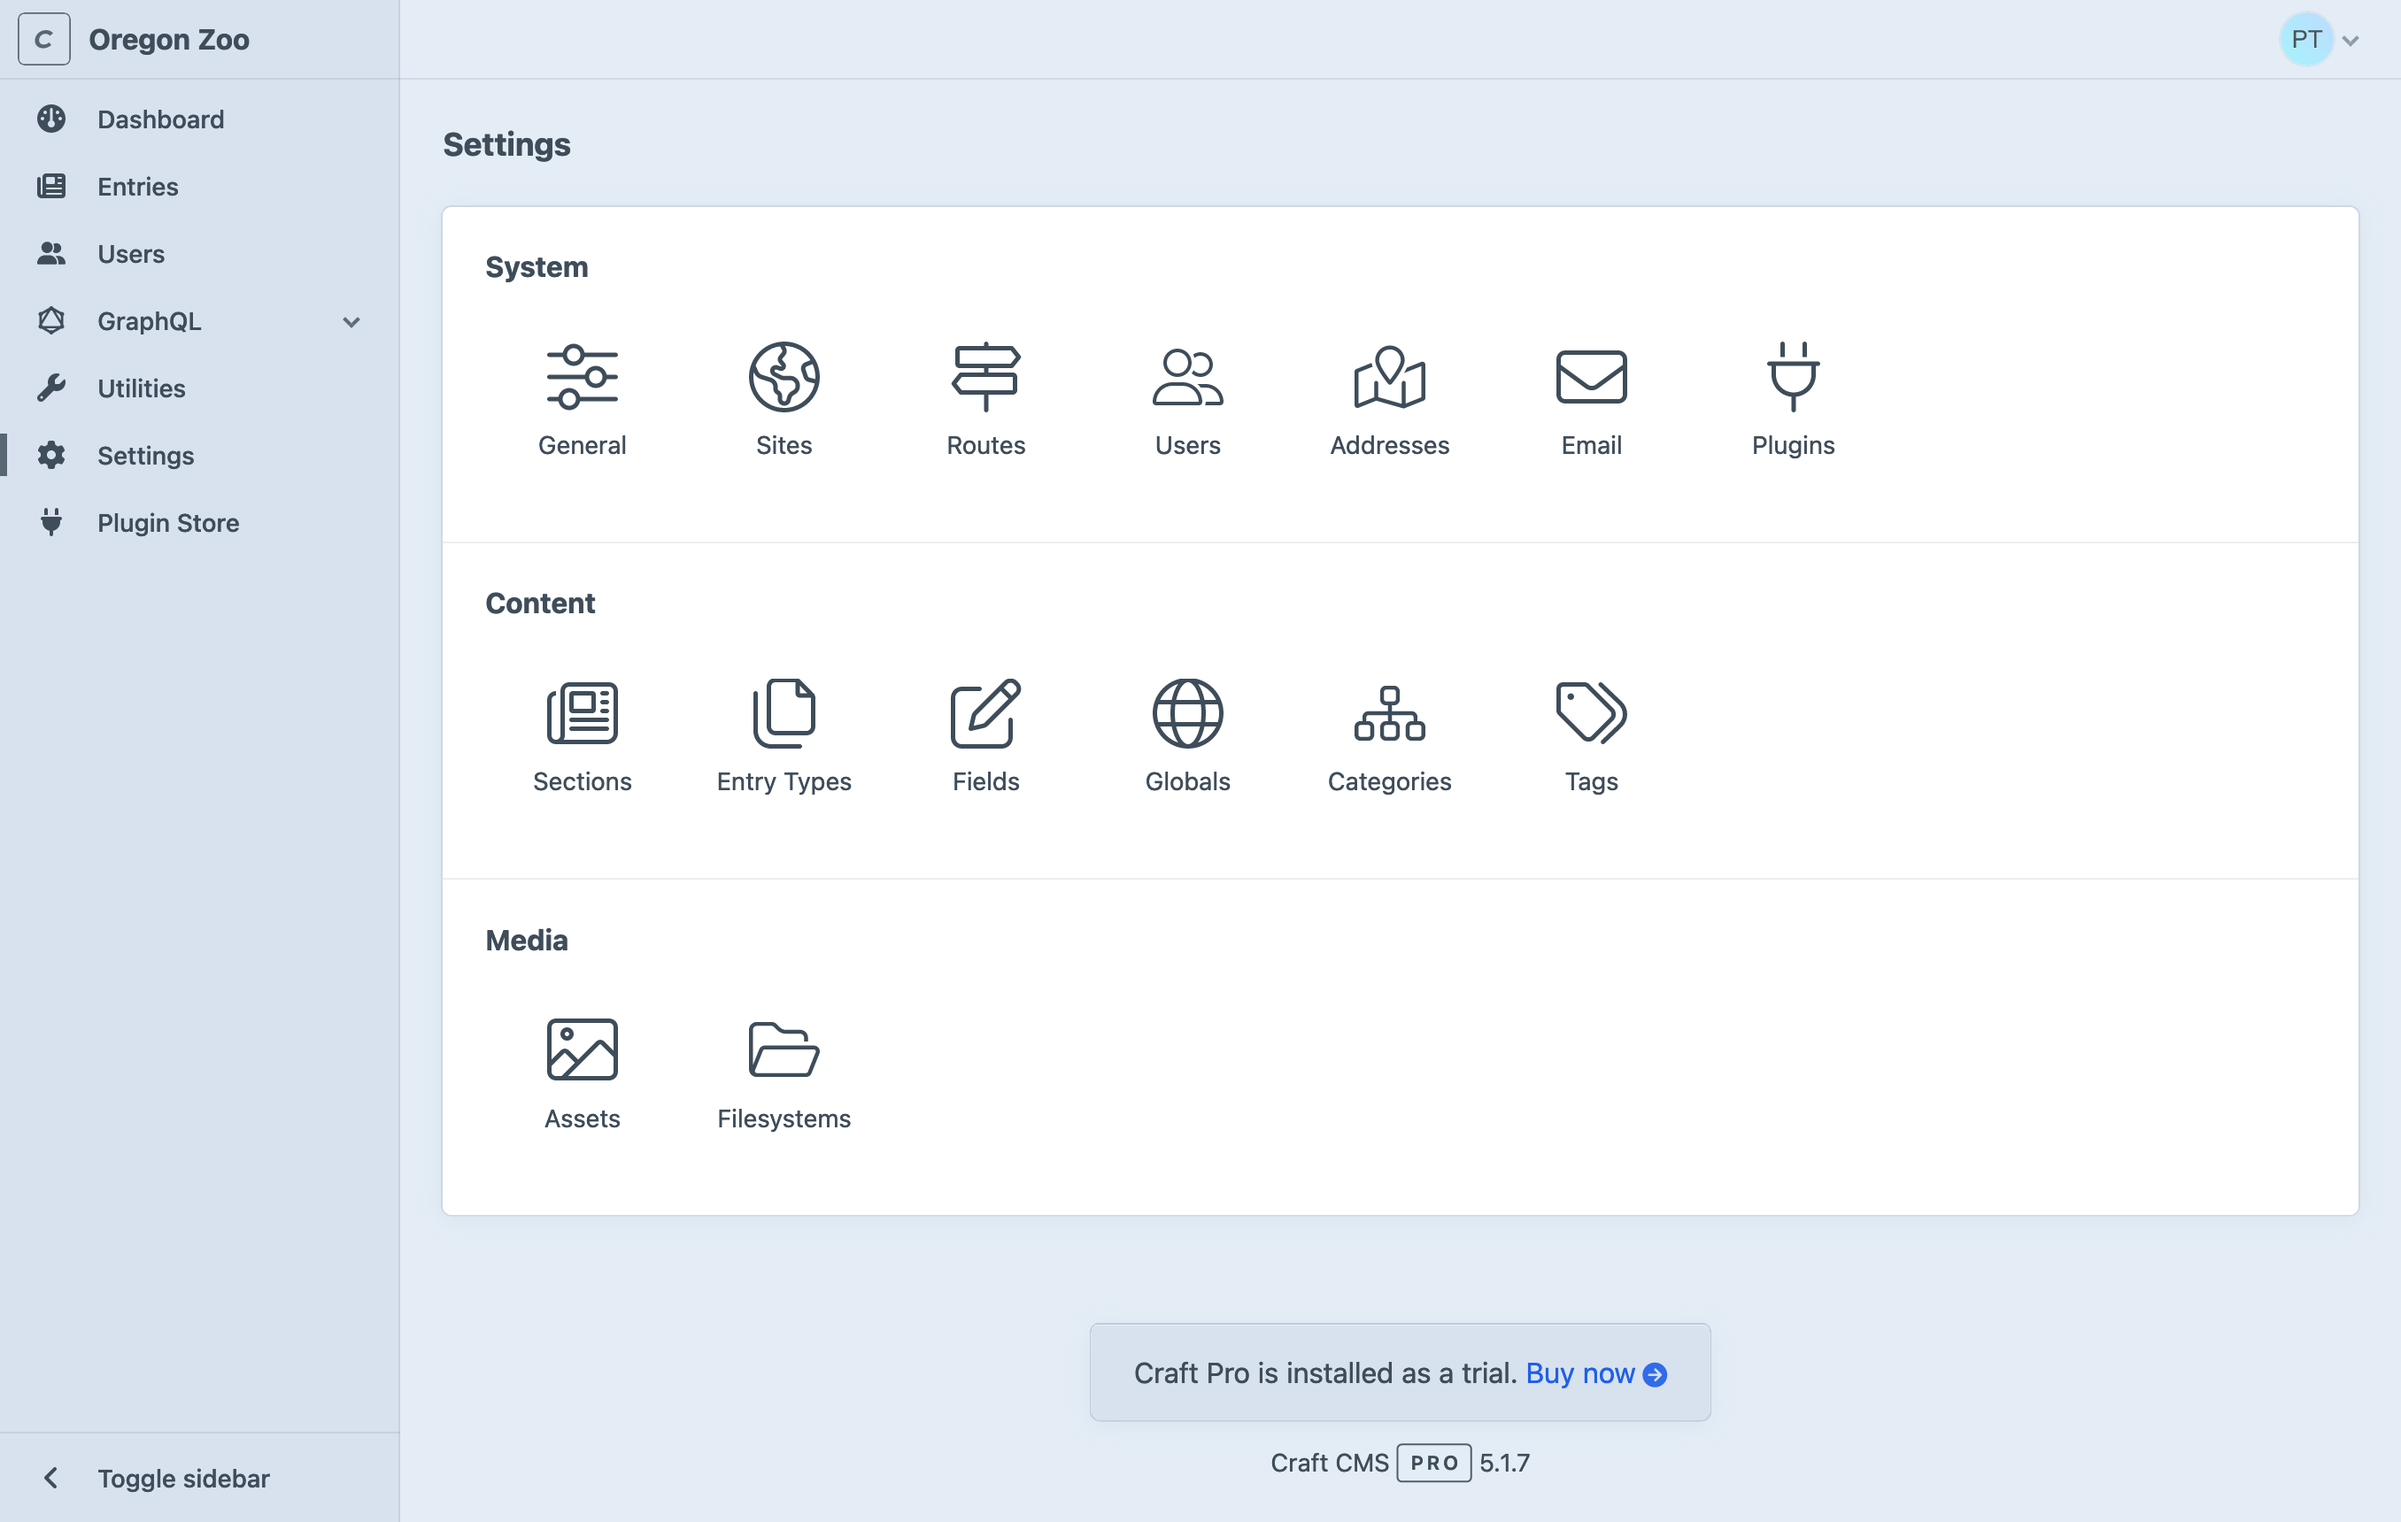
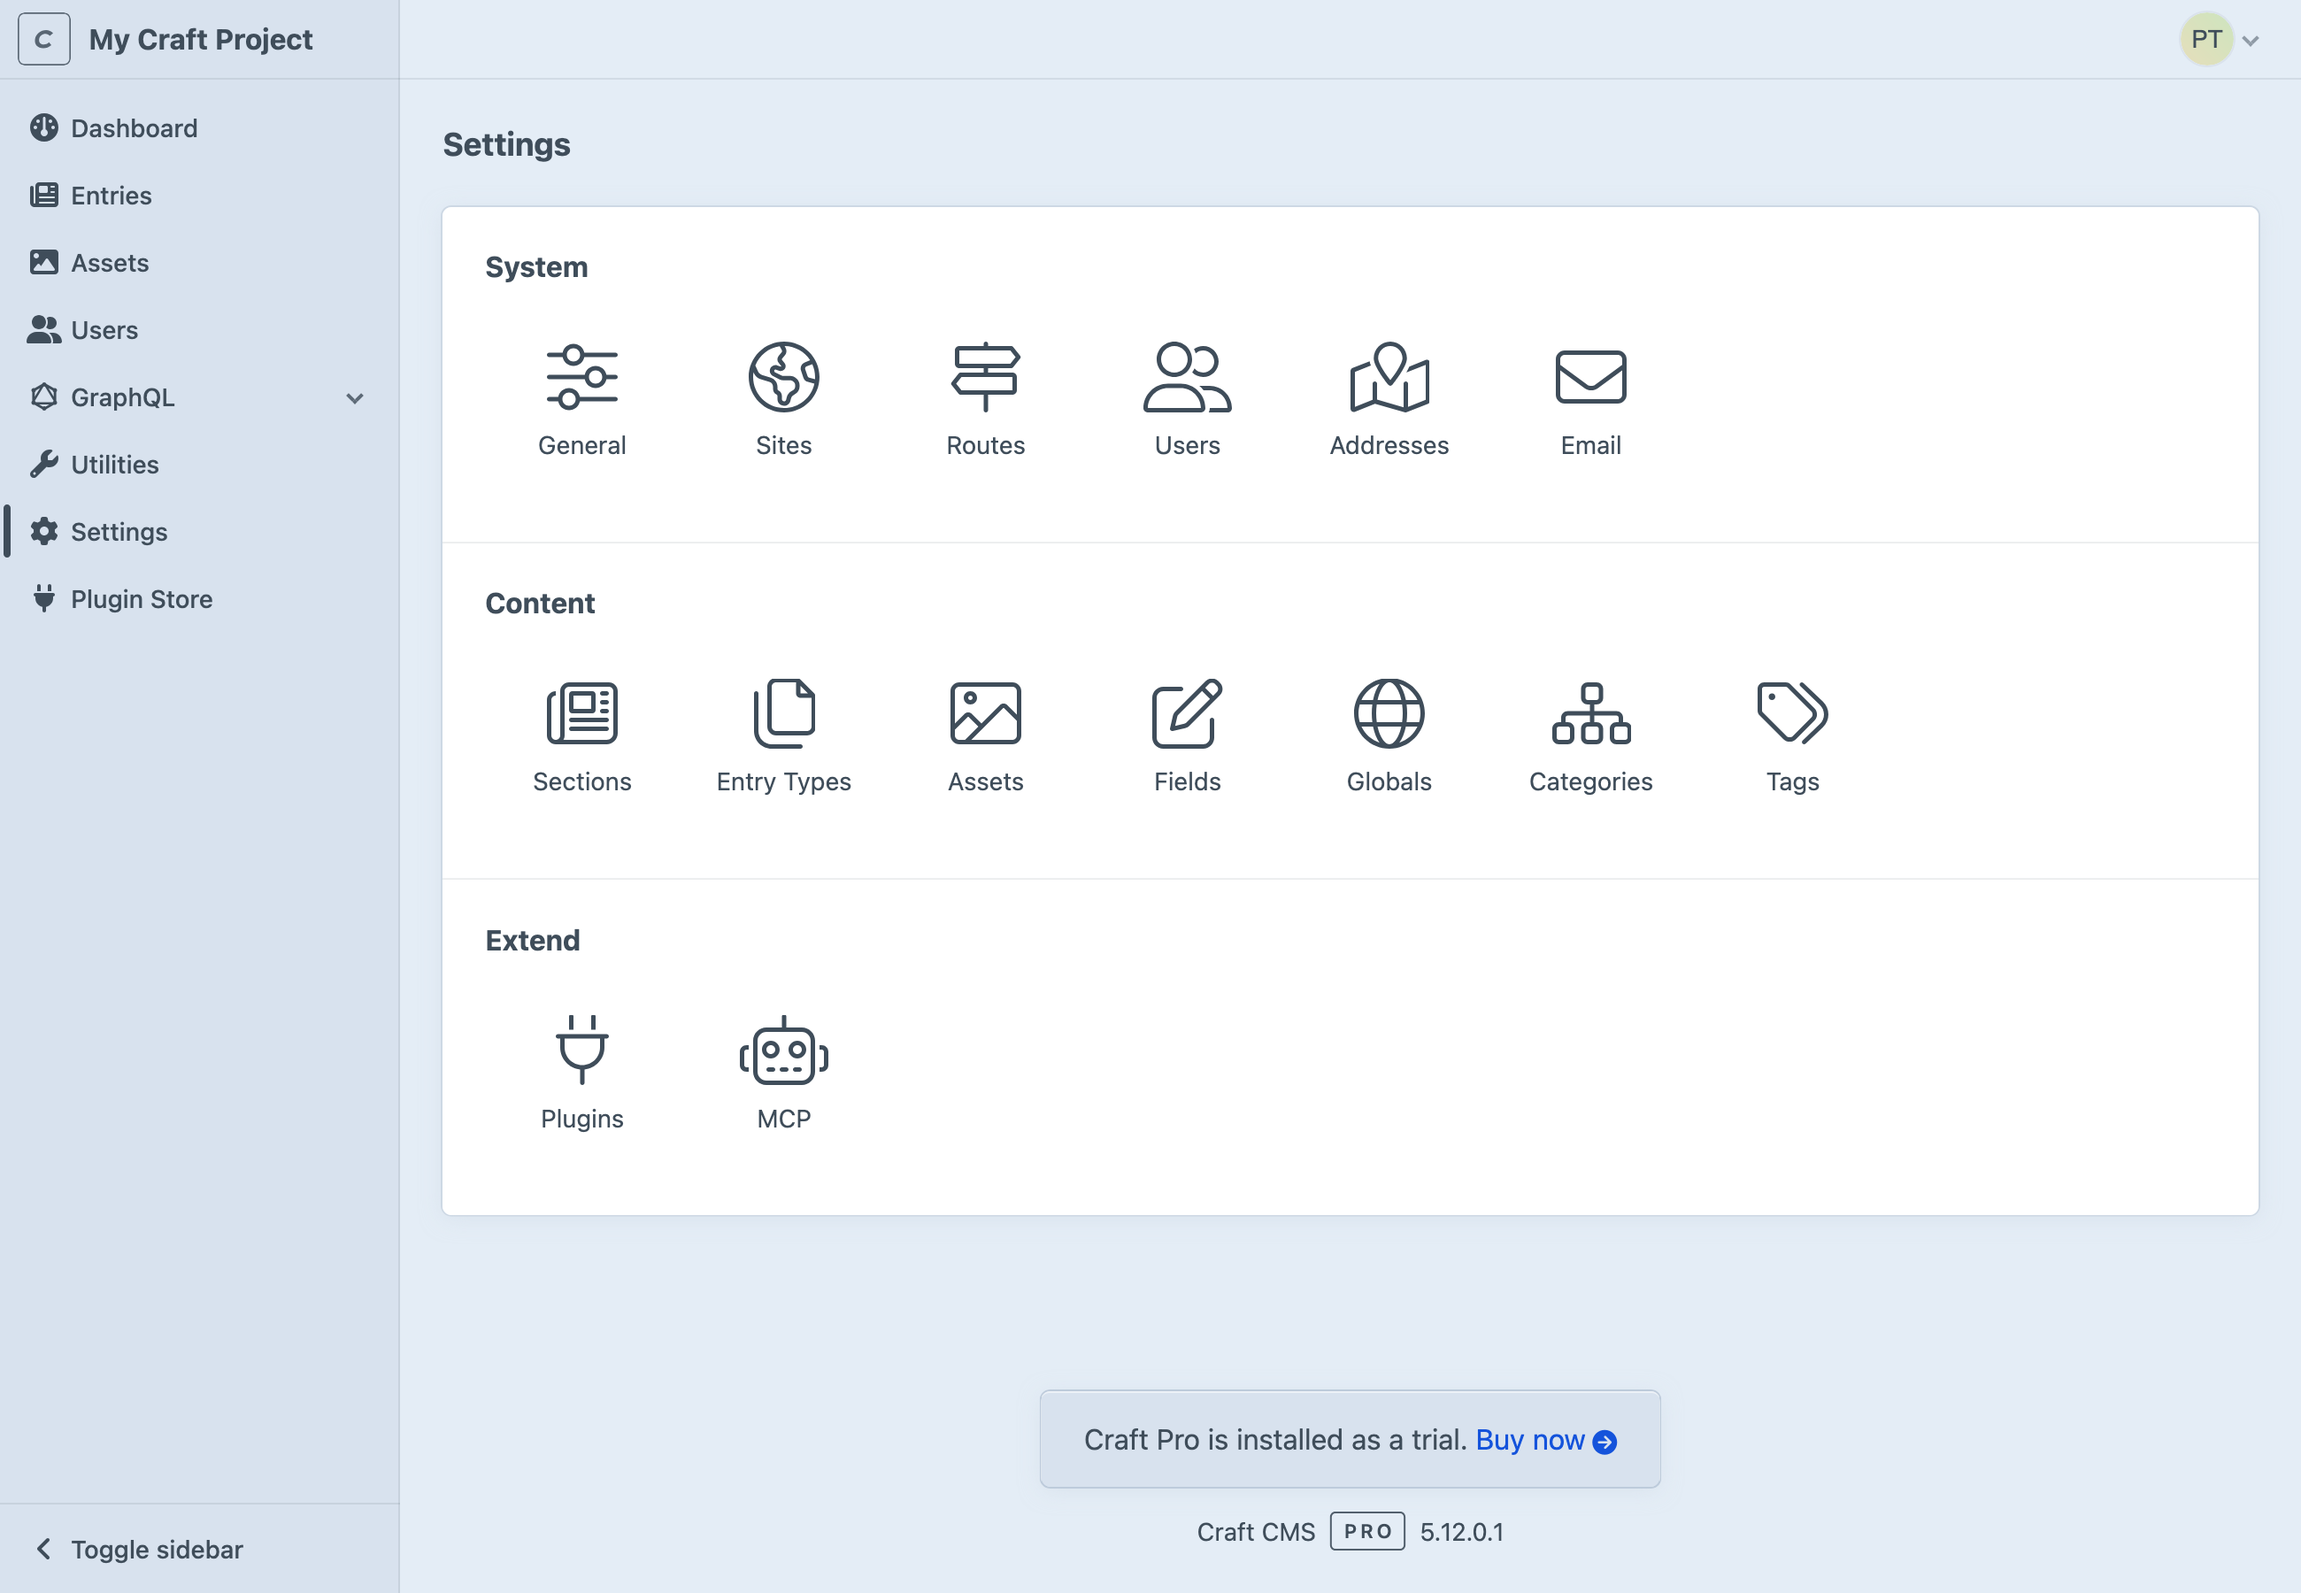
CP cleanup Robit coudn't capture a fresh screenshot; replaced the initial one and the new settings screen organization. It did nudge the “waypoint” around, though, which is weirdly lucid.

diff --git a/docs/5.x/system/control-panel.md b/docs/5.x/system/control-panel.md
@@ -160,9 +160,9 @@ We recommend that this is enabled [only in development environments](../deploy.m
     caption="The settings screen in Craft Pro. Some tiles may only be available in paid editions of Craft."
     id="settings"
     :poi="{
-        system: [80, 24],
-        content: [80, 46],
-        extend: [80, 68],
+        system: [85, 24],
+        content: [85, 46],
+        extend: [85, 68],
     }">
 <img src="../images/control-panel-settings.png" alt="Craft settings screen">
 </BrowserShot>
@@ -195,7 +195,8 @@ Group | Description
 **Tags** | Define simple taxonomies with [tag groups](../reference/element-types/tags.md#tag-groups).
 
 ::: tip
-Prior to Craft 5.12, asset settings and filesystems had their own tiles in a separate “Media” section. Filesystems are now managed from <Journey path="Settings, Assets, Filesystems" />.
+Prior to Craft 5.12, asset settings and filesystems had their own tiles in a separate “Media” section.
+Filesystems are now managed from <Journey path="Settings, Assets, Filesystems" />.
 :::
 
 #### Extend <Poi label="3" target="settings" id="extend" /> <Since ver="5.12.0" feature="The Extend settings section" />
@@ -209,11 +210,13 @@ Group | Description
 
 #### Plugins
 
-Additional tiles may appear in a final group, after installing [plugins](plugins.md). Plugin settings are also accessible via the <Journey path="Settings, Plugins" /> screen.
+Installed [plugins](plugins.md) may add more tiles to a final **Plugins** group.
+Plugins’ settings screens are also accessible via their rows in <Journey path="Settings, Plugins" />.
 
 #### Read-Only Mode <Since ver="5.6.0" feature="Read-only settings screens" />
 
-[Administrators](user-management.md#admin-accounts) can always _view_ settings. A banner appears at the top of each settings screen, and inputs and controls are simplified or disabled:
+[Administrators](user-management.md#admin-accounts) can always _view_ settings.
+A banner appears at the top of each settings screen, and inputs and controls are simplified or disabled:
 
 <BrowserShot
     url="https://my-craft-project.ddev.site/admin/settings"
